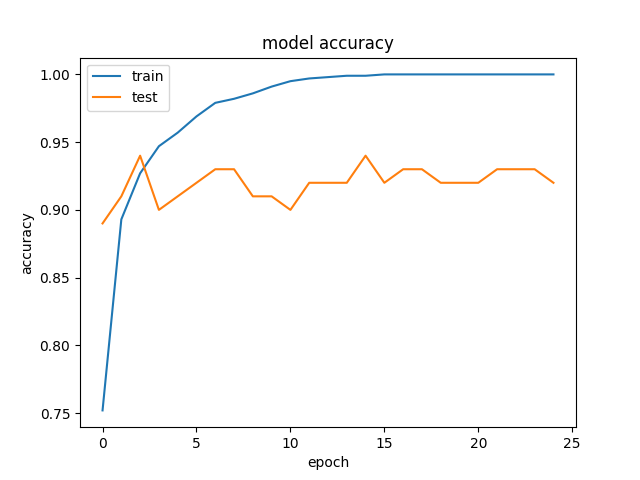
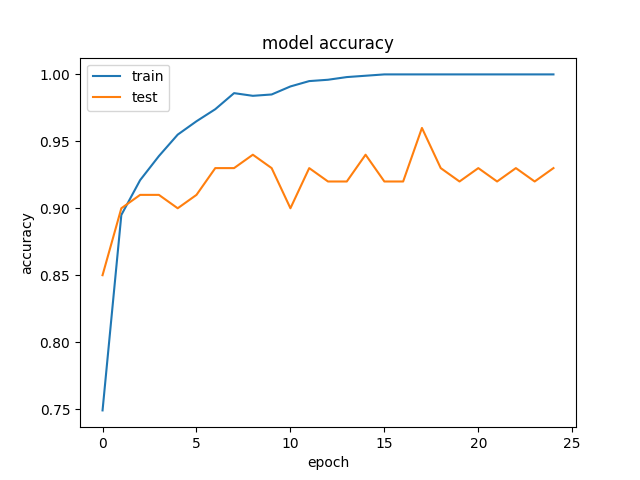
Small change in basic network structure.

diff --git a/mnist/train_small_data_mnist.py b/mnist/train_small_data_mnist.py
@@ -82,7 +82,7 @@ for d in device_names:
 		#model.add(Dropout(0.25))
 		model.add(Flatten())
 		model.add(Dense(128, activation='relu'))
-		#model.add(Dropout(0.5))
+		model.add(Dense(64, activation='relu'))
 
 		# Output layer
 		model.add(Dense(num_classes, activation='softmax'))
